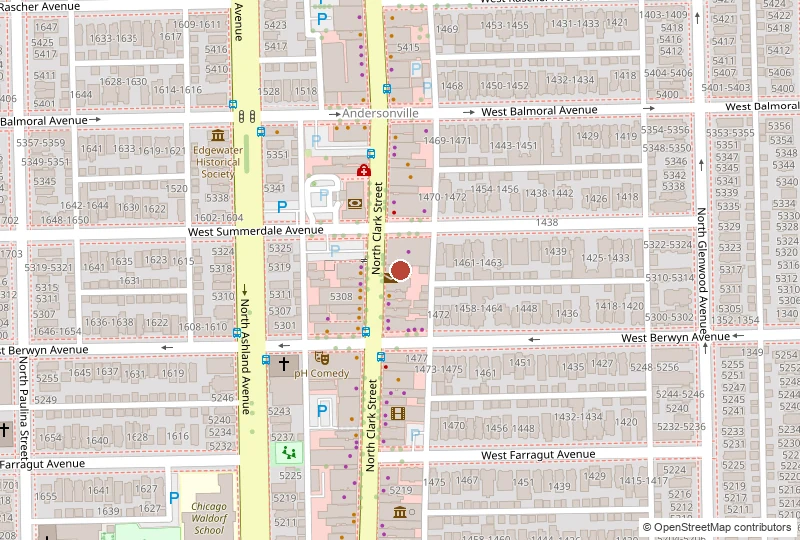
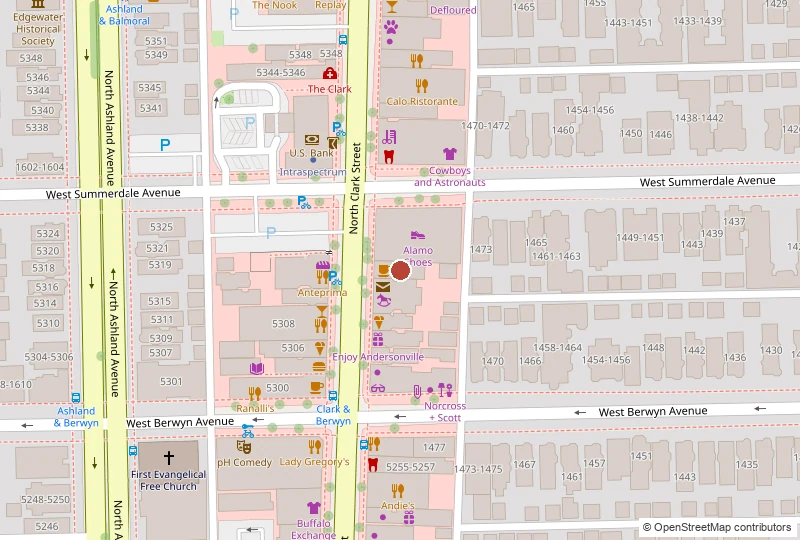
fix(maps): zoom 17→18 — street names + venue labels now legible
At zoom 17 the map covered ~3-4 blocks; street name density was high
enough that labels rendered illegibly small once the image was scaled
into the venue card. Zoom 18 narrows the view to ~2 blocks (the venue's
block + immediate neighbors), letting OSM's per-label rendering breathe.
Venue names like "Uvae Kitchen and Wine Bar" now appear inline next to
the marker. File bundle drops from 3.0M to 1.9M as a side effect.

diff --git a/scripts/build_business_maps.py b/scripts/build_business_maps.py
@@ -32,7 +32,7 @@ BUSINESSES_YAML = REPO_ROOT / "config" / "businesses.yaml"
 OUT_DIR = REPO_ROOT / "public" / "images" / "maps"
 
 WIDTH, HEIGHT = 800, 540
-ZOOM = 17
+ZOOM = 18
 TILE_PX = 256
 MARKER_RED = (184, 68, 53)        # --riso-red
 MARKER_OUTLINE = (255, 255, 255)
